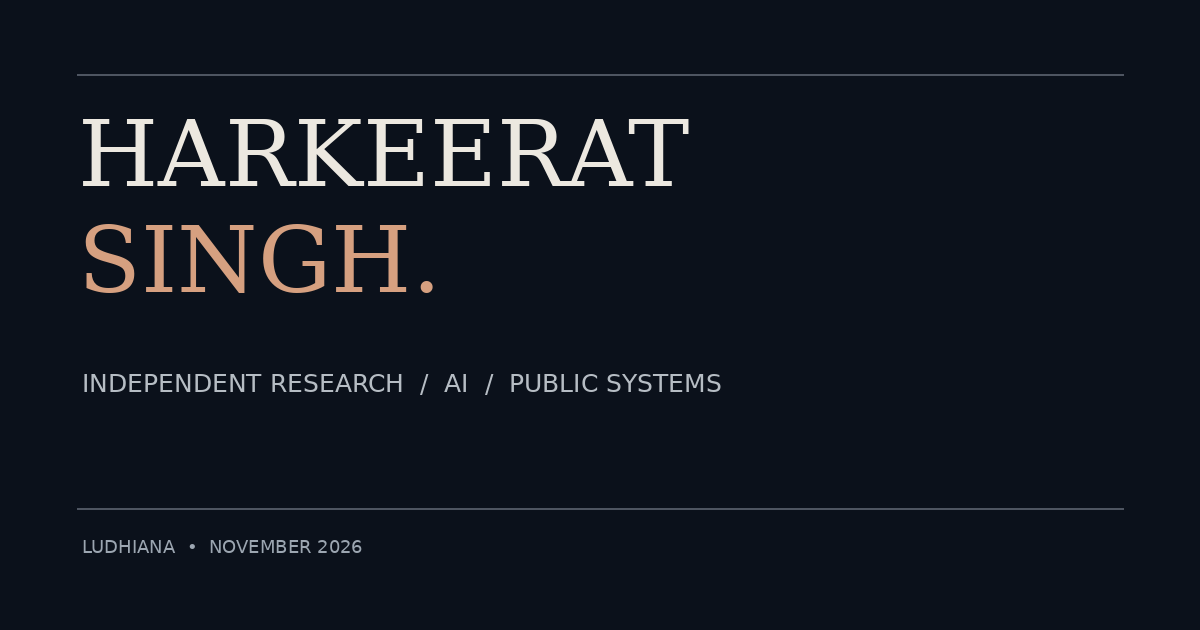
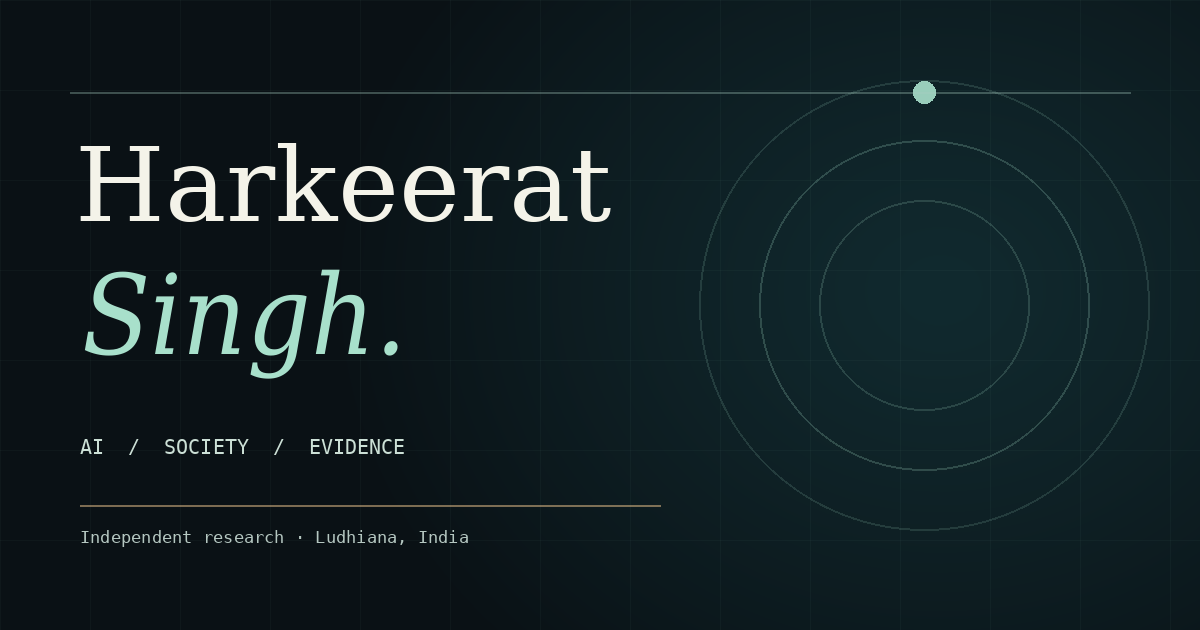
Repair hero research diagram, unify deep petrol palette, add IITJ institutional email

diff --git a/docs/noir.css b/docs/noir.css
@@ -248,3 +248,137 @@ html,body{overflow-x:clip}
 .tape-band{transform:none;clip-path:polygon(0 11%,100% 0,100% 89%,0 100%);margin:0}
 .tape-secondary{transform:none;clip-path:polygon(0 0,100% 12%,100% 100%,0 88%);margin:0}
 @media(max-width:760px){.writing-head,.writing-piece{grid-template-columns:1fr}.writing-head{gap:8px}.writing-head p{font-size:16px}.writing-piece{gap:20px}.writing-piece h3{font-size:48px}}
+
+
+/* ---------------------------------------------------------
+   V6 / DEEP-PETROL RESEARCH ATLAS
+   A deliberately compact two-accent palette. The visual figure
+   is layered in 2D to avoid the old 3D/orbit transform collision.
+   --------------------------------------------------------- */
+:root {
+  --bg:#0a1115; --bg-soft:#101b20; --panel:#142329; --panel-2:#1b3035;
+  --line:rgba(201,224,215,.16); --line-strong:rgba(201,224,215,.35);
+  --text:#f1f1e9; --muted:#b7c6c3; --muted-2:#8da5a1;
+  --lime:#a8e0cb; --lime-soft:#7bc8ae; --violet:#7ba8b1;
+  --cobalt:#81b3bf; --pink:#b9a6a0; --orange:#e4b784; --aqua:#86cebc;
+}
+html,body,.case-page {background:var(--bg)}
+::selection{background:#a8e0cb;color:#10231e}
+.site-header,.site-header.scrolled{background:rgba(10,17,21,.95);border-color:var(--line)}
+.brand-copy small{color:#9dbab5}
+.desktop-nav a{color:#c4d1ce}
+.menu-trigger,.mobile-menu{background:#111e22}
+.motion-toggle{color:#a9bfbb}
+.hero{
+  background:radial-gradient(ellipse at 78% 37%,rgba(37,91,94,.26),transparent 42%),radial-gradient(ellipse at 11% 91%,rgba(168,129,84,.10),transparent 42%),#0a1115;
+}
+.hero::before{background:linear-gradient(130deg,transparent 0 49.95%,rgba(187,219,204,.06) 50%,transparent 50.06%);opacity:.7}
+.hero-lead{color:#c4d5d0}
+.button-primary{background:#a8e0cb;color:#0a1717;border-color:#a8e0cb}
+.button-primary:hover{background:#c9eddf;border-color:#c9eddf}
+.button-ghost{border-color:#64817e;background:rgba(168,224,203,.035)}
+.button-ghost:hover{background:#20383a}
+
+/* Stable hypothesis diagram: label geometry cannot intersect rotating rings. */
+.hero-scene.attribution-figure{
+  position:relative; min-width:0; min-height:0; margin:0;
+  display:flex; flex-direction:column; justify-content:space-between;
+  border:1px solid rgba(138,190,177,.27); border-radius:3px;
+  background:radial-gradient(circle at 50% 42%,rgba(31,96,96,.34),transparent 41%),
+    linear-gradient(to right,transparent 23.9%,rgba(165,219,202,.045) 24%,transparent 24.1%,transparent 74.9%,rgba(165,219,202,.045) 75%,transparent 75.1%),
+    linear-gradient(to bottom,transparent 24.9%,rgba(165,219,202,.045) 25%,transparent 25.1%,transparent 74.9%,rgba(165,219,202,.045) 75%,transparent 75.1%),
+    #0d1a20;
+  box-shadow:inset 0 0 70px rgba(5,15,18,.62),0 24px 65px rgba(0,0,0,.14);
+  overflow:hidden;
+  perspective:none; transform-style:flat;
+}
+.hero-scene.attribution-figure::before,.hero-scene.attribution-figure::after{display:none!important;content:none!important}
+.figure-header,.figure-caption{width:100%;display:flex;justify-content:space-between;align-items:center;gap:14px;position:relative;z-index:4}
+.figure-header{padding:22px 25px 0;color:#a6bdb8;font:500 9px/1.4 var(--mono);letter-spacing:.08em}
+.figure-status{display:flex;align-items:center;gap:8px;color:#9fd0b9}
+.figure-status i{width:6px;height:6px;border-radius:50%;background:var(--lime);box-shadow:0 0 12px rgba(145,221,186,.75);animation:figure-pulse 2.7s ease-in-out infinite}
+@keyframes figure-pulse{50%{opacity:.42;box-shadow:0 0 3px rgba(145,221,186,.12)}}
+.figure-stage{position:relative; flex:1; min-height:clamp(370px,34vw,500px);display:grid;place-items:center;isolation:isolate;overflow:hidden}
+.figure-ring-wrap{position:absolute;width:min(72%,390px);aspect-ratio:1;left:50%;top:42%;transform:translate(-50%,-50%);z-index:0;pointer-events:none}
+.figure-ring{position:absolute;border-radius:50%;inset:0;border:1px solid rgba(158,212,195,.20)}
+.figure-ring.ring-outer{border-style:dashed;animation:figure-spin 28s linear infinite}
+.figure-ring.ring-mid{inset:17%;border-color:rgba(150,221,204,.22)}
+.figure-ring.ring-inner{inset:33%;border-color:rgba(218,181,138,.21)}
+.figure-ring-wrap::before,.figure-ring-wrap::after{content:'';position:absolute;left:50%;top:-19%;width:1px;height:138%;background:linear-gradient(transparent,rgba(143,200,181,.12),transparent);transform:translateX(-50%)}
+.figure-ring-wrap::after{transform:translateX(-50%) rotate(90deg)}
+.orbit-marker{position:absolute;left:50%;top:-4px;width:8px;height:8px;border-radius:50%;background:#c8e6d7;box-shadow:0 0 21px #86e0bf}
+@keyframes figure-spin{to{transform:rotate(360deg)}}
+.figure-axis{position:absolute;left:50%;top:41%;width:1px;height:55%;background:linear-gradient(rgba(145,207,185,.25),transparent);transform:translateX(-50%);z-index:-1}
+.figure-axis-x{width:70%;height:1px;left:15%;top:42%;transform:none;background:linear-gradient(90deg,transparent,rgba(145,207,185,.16),transparent)}
+.figure-core{position:absolute;left:50%;top:42%;transform:translate(-50%,-50%);display:flex;flex-direction:column;align-items:center;justify-content:center;width:clamp(158px,16vw,214px);aspect-ratio:1;border-radius:50%;text-align:center;background:radial-gradient(circle at 50% 42%,#213a39,#132529 75%);border:1px solid rgba(176,227,207,.52);box-shadow:0 0 0 7px #0b1a1d,0 0 40px rgba(112,211,179,.07);z-index:2}
+.figure-core>span{font:500 9px var(--mono);letter-spacing:.09em;color:#a7d7c3;margin-bottom:7px}
+.figure-core strong{font:400 clamp(36px,3.9vw,54px)/.97 var(--serif);color:#f4f1e7;white-space:nowrap}
+.figure-core small{font:400 10px var(--sans);color:#adc7be;margin-top:8px}
+.figure-trace{position:absolute;width:1px;top:58%;bottom:19%;left:50%;background:linear-gradient(rgba(169,224,202,.34),rgba(169,224,202,.06));z-index:1}
+.figure-trace>span{position:absolute;left:-2px;width:5px;height:5px;border-radius:50%;background:#e2b784;animation:figure-trace 3s ease-in-out infinite}
+@keyframes figure-trace{0%{top:0%;opacity:0}35%{opacity:1}100%{top:95%;opacity:0}}
+.figure-possibilities{position:absolute;bottom:15px;left:18px;right:18px;display:grid;grid-template-columns:repeat(3,minmax(0,1fr));gap:8px;z-index:2}
+.hypothesis{min-width:0;padding:13px 10px 12px;border-top:1px solid rgba(173,220,199,.36);background:linear-gradient(180deg,rgba(18,41,43,.76),rgba(9,25,29,.91));display:flex;flex-direction:column;gap:4px;transition:border-color .3s,background .3s,transform .3s}
+.hypothesis:hover{border-color:#d6bc93;background:#203838;transform:translateY(-3px)}
+.hypothesis>span{font:500 10px var(--mono);color:#e2b784}
+.hypothesis strong{font:500 clamp(11px,1.03vw,14px)/1.23 var(--sans);color:#f2f0e8}
+.hypothesis small{font:400 clamp(9px,.82vw,11px)/1.32 var(--sans);color:#9fbab2}
+.figure-caption{padding:0 24px 18px;font:400 10px/1.5 var(--mono);color:#afc2bd}
+.figure-caption span:last-child{color:#dfb685;white-space:nowrap}
+
+/* Color temperature across the rest of the page. */
+.tape-band{background:#d5b88b;color:#132124;border-color:#f0d1a5;box-shadow:0 12px 40px #00000034}
+.tape-band .tape-unit b{color:#526557}
+.tape-secondary{background:#8fbbaa;border-color:#b1ddc9;color:#0d2020}
+.tape-secondary .tape-unit b{color:#2e5a57}
+.premise{background:#101d23}
+.projects-scroll{background:#14232a}
+.project-panel,.project-panel:nth-child(2n){background:linear-gradient(147deg,#21333b,#15232a 72%);border-color:#6e989138}
+.project-panel:nth-child(2n){background:linear-gradient(147deg,#1a3033,#142128 72%)}
+.project-copy h3{color:#f5f2e9}
+.project-question{color:#dfc19a}
+.project-arrow{background:#21393e;border-color:#587e78}
+.project-arrow:not(:disabled):hover{background:#a8e0cb;border-color:#a8e0cb}
+.additional-work,.research-system{background:#0d171c}
+.evidence-ledger,.about{background:#101e22}
+.writing-desk,.experience{background:#0b141a}
+.recognition{background:#101b20}
+.contact{background:radial-gradient(ellipse at 75% 40%,rgba(46,94,88,.18),transparent 47%),#0a1217}
+.contact-glow{background:none}
+.contact-title em,.display-heading em{color:var(--lime)}
+.contact-email,.contact-links a{color:#e1ede7}
+.contact-email b{color:var(--lime)}
+.contact-addresses{display:grid;gap:24px;margin:28px 0 35px}
+.contact-address-label{display:block;font:500 10px/1.6 var(--mono);letter-spacing:.12em;text-transform:uppercase;color:#92b7ac;margin-bottom:6px}
+.contact-address-personal .contact-email{font-size:clamp(17px,2.3vw,29px);opacity:.85}
+.contact-address-personal .contact-address-label{color:#8b9f9f}
+.case-hero,.case-page{background:#0a1115}
+.case-list article{background:#142329}
+
+@media(max-width:1000px){
+ .hero-scene.attribution-figure{min-height:510px}
+ .figure-stage{min-height:410px}
+ .figure-ring-wrap{width:min(70%,335px)}
+}
+@media(max-width:760px){
+ .hero-scene.attribution-figure{min-height:455px;max-height:none}
+ .figure-header{padding:18px 15px 0;font-size:8px}
+ .figure-status{font-size:8px}
+ .figure-stage{min-height:370px}
+ .figure-ring-wrap{width:min(67%,265px);top:40%}
+ .figure-core{top:40%;width:155px}
+ .figure-core strong{font-size:36px}
+ .figure-core>span{font-size:8px}
+ .figure-trace{top:56%;bottom:22%}
+ .figure-possibilities{left:9px;right:9px;bottom:4px;gap:5px}
+ .hypothesis{padding:10px 6px}
+ .hypothesis strong{font-size:10px}
+ .hypothesis small{font-size:8px}
+ .figure-caption{padding:0 13px 15px;font-size:8px;gap:8px}
+ .figure-caption span:last-child{white-space:normal;text-align:right}
+ .contact-address-personal .contact-email{font-size:17px}
+}
+@media(prefers-reduced-motion:reduce){
+ .ring-outer,.figure-trace>span,.figure-status i{animation:none!important}
+}
+html[data-motion="paused"] .ring-outer,html[data-motion="paused"] .figure-trace>span,html[data-motion="paused"] .figure-status i{animation-play-state:paused!important}

diff --git a/docs/index.html b/docs/index.html
@@ -3,7 +3,7 @@
 <head>
 <meta charset="utf-8"/>
 <meta content="width=device-width, initial-scale=1, viewport-fit=cover" name="viewport"/>
-<meta content="#0b111b" name="theme-color"/>
+<meta content="#0a1115" name="theme-color"/>
 <meta content="dark" name="color-scheme"/>
 <meta content="Harkeerat Singh is an undergraduate researcher exploring causal AI, evidence integrity, public-examination reform, learning systems, computational music and human-AI interaction. Explore research case studies and methods." name="description"/>
 <meta content="Harkeerat Singh — Research, systems &amp; evidence" property="og:title"/>
@@ -14,7 +14,7 @@
 <link href="manifest.webmanifest" rel="manifest"/>
 <link href="styles.css" rel="stylesheet"/>
 <title>Harkeerat Singh — Research at the intersection of AI and public systems</title>
-<script type="application/ld+json">{"@context":"https://schema.org","@type":"Person","name":"Harkeerat Singh","description":"Undergraduate researcher studying trustworthy computational and public systems","affiliation":[{"@type":"CollegeOrUniversity","name":"Indian Institute of Technology Jodhpur"},{"@type":"CollegeOrUniversity","name":"Panjab University"}],"sameAs":["https://github.com/iharkeerat","https://www.linkedin.com/in/harkeeratsingh01/"],"knowsAbout":["Reinforcement Learning","Causal attribution","Public examination policy","Reproducible research","Indic computational music","Learning technologies"]}</script>
+<script type="application/ld+json">{"@context":"https://schema.org","@type":"Person","name":"Harkeerat Singh","description":"Undergraduate researcher studying trustworthy computational and public systems","affiliation":[{"@type":"CollegeOrUniversity","name":"Indian Institute of Technology Jodhpur"},{"@type":"CollegeOrUniversity","name":"Panjab University"}],"sameAs":["https://github.com/iharkeerat","https://www.linkedin.com/in/harkeeratsingh01/"],"email":"b25bs2100@iitj.ac.in","knowsAbout":["Reinforcement Learning","Causal attribution","Public examination policy","Reproducible research","Indic computational music","Learning technologies"]}</script>
 <link href="https://fonts.googleapis.com" rel="preconnect"/>
 <link crossorigin="" href="https://fonts.gstatic.com" rel="preconnect"/>
 <link href="https://fonts.googleapis.com/css2?family=IBM+Plex+Mono:wght@400;500;600&amp;family=IBM+Plex+Sans:wght@400;500;600;700&amp;family=Instrument+Serif:ital@0;1&amp;display=swap" rel="stylesheet"/><link href="editorial.css" rel="stylesheet"/><link href="noir.css" rel="stylesheet"/></head>
@@ -54,18 +54,25 @@
 <a class="button button-ghost magnetic" href="assets/docs/Harkeerat_Singh_Research_CV_2026.pdf" rel="noopener" target="_blank"><span>Research CV</span><b>↗</b></a>
 </div>
 </div>
-<div aria-label="Interactive three-dimensional research system visual" class="hero-scene">
-<div aria-hidden="true" class="scene-shadow"></div>
-<div aria-hidden="true" class="data-cube" data-depth="0.18" data-tilt="">
-<div class="cube-face face-front"><span>AI</span><small>models</small></div>
-<div class="cube-face face-back"><span>DATA</span><small>evidence</small></div>
-<div class="cube-face face-right"><span>HAI</span><small>people</small></div>
-<div class="cube-face face-left"><span>POL</span><small>policy</small></div>
-<div class="cube-face face-top"><span>STAT</span><small>uncertainty</small></div>
-<div class="cube-face face-bottom"><span>SYS</span><small>systems</small></div>
-</div>
-<div aria-hidden="true" class="orbit orbit-one"><i></i></div>
-<p class="scene-caption">Studies in uncertainty, evidence and public life</p></div>
+<figure class="hero-scene attribution-figure" aria-label="Reality Attribution research illustration: one uncertain signal may have three competing explanations">
+  <div class="figure-header"><span>FIG. 01 &nbsp;/&nbsp; REALITY ATTRIBUTION</span><span class="figure-status"><i aria-hidden="true"></i> RESEARCH DIAGRAM</span></div>
+  <div class="figure-stage" aria-hidden="true">
+    <div class="figure-ring-wrap">
+      <div class="figure-ring ring-outer"><span class="orbit-marker"></span></div>
+      <div class="figure-ring ring-mid"></div>
+      <div class="figure-ring ring-inner"></div>
+      <div class="figure-axis figure-axis-x"></div><div class="figure-axis figure-axis-y"></div>
+    </div>
+    <div class="figure-core"><span>01 / OBSERVED</span><strong>A signal.</strong><small>But what caused it?</small></div>
+    <div class="figure-trace" aria-hidden="true"><span></span></div>
+    <div class="figure-possibilities">
+      <div class="hypothesis"><span>H₁</span><strong>The world</strong><small>Environment changed</small></div>
+      <div class="hypothesis"><span>H₂</span><strong>The memory</strong><small>Observation delayed</small></div>
+      <div class="hypothesis"><span>H₃</span><strong>An intervention</strong><small>Hidden influence</small></div>
+    </div>
+  </div>
+  <figcaption class="figure-caption"><span>Competing explanations, not predetermined answers.</span><span>Evidence → inference</span></figcaption>
+</figure>
 </section><div aria-label="Research areas: artificial intelligence, learning sciences, public policy, computational music, reproducibility" class="tape-band"><div class="tape-viewport"><div aria-hidden="true" class="tape-rail"><div class="tape-unit"><span>RESEARCH / 2026</span><b>✳</b><span>AI &amp; UNCERTAINTY</span><b>✳</b><span>LEARNING SCIENCES</span><b>✳</b><span>PUBLIC EXAMINATIONS</span><b>✳</b><span>COMPUTATIONAL MUSIC</span><b>✳</b><span>HUMAN–AI INTERACTION</span><b>✳</b></div><div class="tape-unit"><span>RESEARCH / 2026</span><b>✳</b><span>AI &amp; UNCERTAINTY</span><b>✳</b><span>LEARNING SCIENCES</span><b>✳</b><span>PUBLIC EXAMINATIONS</span><b>✳</b><span>COMPUTATIONAL MUSIC</span><b>✳</b><span>HUMAN–AI INTERACTION</span><b>✳</b></div></div></div></div>
 <section class="premise section-pad" data-section="" id="premise">
 <div class="section-index">WORKING NOTES</div>
@@ -287,7 +294,10 @@
 <span class="section-index">CONTACT</span>
 <p class="micro-label">For research exchanges, critiques and careful collaboration</p>
 <h2 class="contact-title reveal-lines">Have a question?<br/><em>Write to me.</em></h2>
-<a class="contact-email magnetic" href="mailto:harkeerat3211@gmail.com">harkeerat3211@gmail.com <b>↗</b></a>
+<div class="contact-addresses">
+  <div class="contact-address"><span class="contact-address-label">Institutional · IIT Jodhpur</span><a class="contact-email magnetic" href="mailto:b25bs2100@iitj.ac.in">b25bs2100@iitj.ac.in <b>↗</b></a></div>
+  <div class="contact-address contact-address-personal"><span class="contact-address-label">Personal correspondence</span><a class="contact-email magnetic" href="mailto:harkeerat3211@gmail.com">harkeerat3211@gmail.com <b>↗</b></a></div>
+</div>
 <div class="contact-links"><a href="https://github.com/iharkeerat" rel="noopener noreferrer" target="_blank">GitHub ↗</a>
 <a href="https://linkedin.com/in/harkeeratsingh01" rel="noopener" target="_blank">LinkedIn ↗</a>
 <a href="assets/docs/Harkeerat_Singh_Research_CV_2026.pdf" rel="noopener" target="_blank">Résumé ↗</a>
